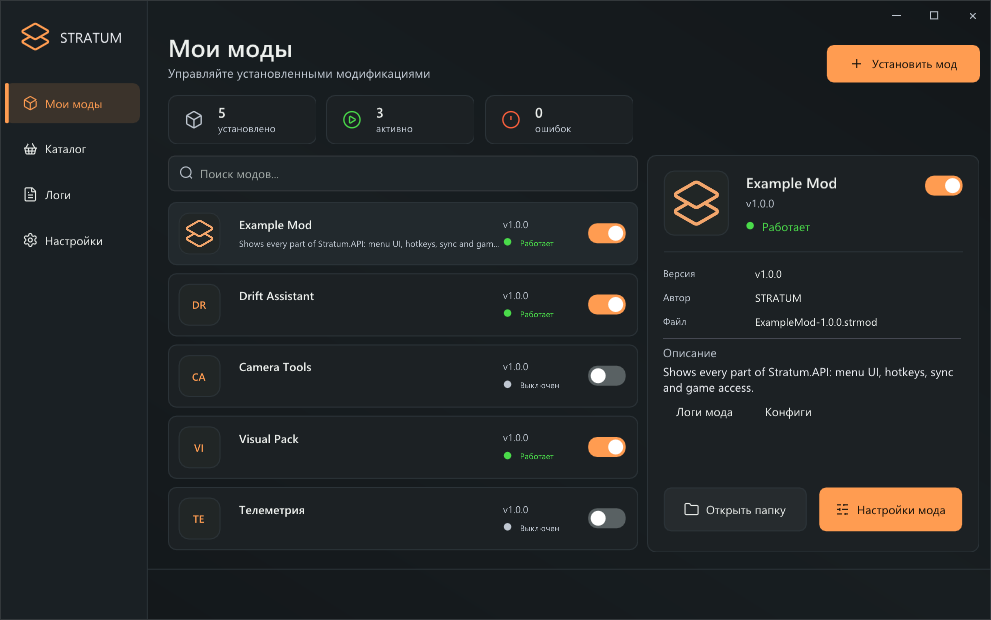
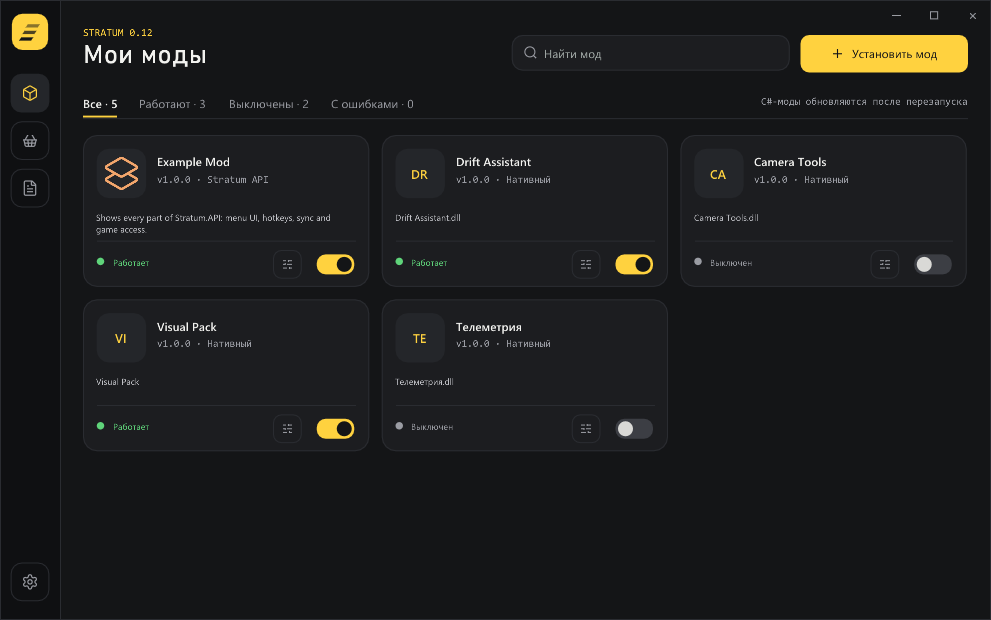
Add files via upload

diff --git a/docs/guide.html b/docs/guide.html
@@ -6,8 +6,8 @@
 <style>
 /* Layout: the STRATUM menu's own world — graphite panels, one orange accent; sticky contents rail beside a 70ch reading column. */
 :root {
-  --bg: #0e1215; --panel: #151b1f; --panel-2: #1b2227; --line: #263038; --fg: #e9ecef; --muted: #9aa5ae;
-  --accent: #ff9c51; --accent-ink: #1c1108; --accent-soft: rgba(255,156,81,.12); --code: #0a0d10; --ok: #4bdb4b;
+  --bg: #141517; --panel: #1c1d20; --panel-2: #24262a; --line: #2a2c31; --fg: #e9ecef; --muted: #9aa5ae;
+  --accent: #ffd23f; --accent-ink: #141517; --accent-soft: rgba(255,210,63,.12); --code: #0a0d10; --ok: #4bdb4b;
   --display: "Unbounded", "Segoe UI", system-ui, sans-serif;
   --body: "IBM Plex Sans", "Segoe UI", system-ui, sans-serif;
   --mono: "JetBrains Mono", Consolas, "Cascadia Mono", monospace;
@@ -15,10 +15,10 @@
 }
 @media (prefers-color-scheme: light) { :root:not([data-theme="dark"]) {
   --bg: #f3f5f6; --panel: #ffffff; --panel-2: #eef1f3; --line: #d8dee2; --fg: #141a1e; --muted: #56616a;
-  --accent: #c4601a; --accent-ink: #ffffff; --accent-soft: rgba(196,96,26,.10); --code: #f6f8f9; --ok: #1f8f3a; color-scheme: light } }
+  --accent: #8a5f00; --accent-ink: #ffffff; --accent-soft: rgba(138,95,0,.10); --code: #f6f8f9; --ok: #1f8f3a; color-scheme: light } }
 :root[data-theme="light"] {
   --bg: #f3f5f6; --panel: #ffffff; --panel-2: #eef1f3; --line: #d8dee2; --fg: #141a1e; --muted: #56616a;
-  --accent: #c4601a; --accent-ink: #ffffff; --accent-soft: rgba(196,96,26,.10); --code: #f6f8f9; --ok: #1f8f3a; color-scheme: light }
+  --accent: #8a5f00; --accent-ink: #ffffff; --accent-soft: rgba(138,95,0,.10); --code: #f6f8f9; --ok: #1f8f3a; color-scheme: light }
 
 * { box-sizing: border-box; }
 body { background: var(--bg); color: var(--fg); font: 400 16px/1.65 var(--body); margin: 0;
@@ -100,13 +100,13 @@ figcaption { font-size: 13.5px; color: var(--muted); margin-top: 8px; }
 <header class="hero">
   <div>
     <div class="brand" aria-label="STRATUM">
-      <svg viewBox="0 0 24 24" fill="none" stroke="currentColor" stroke-width="2" stroke-linecap="round" stroke-linejoin="round" aria-hidden="true"><path d="m16.02 12 5.48 3.13a1 1 0 0 1 0 1.74L13 21.74a2 2 0 0 1-2 0l-8.5-4.87a1 1 0 0 1 0-1.74L7.98 12"/><path d="M13 13.74a2 2 0 0 1-2 0L2.5 8.87a1 1 0 0 1 0-1.74L11 2.26a2 2 0 0 1 2 0l8.5 4.87a1 1 0 0 1 0 1.74Z"/></svg>
+      <svg viewBox="0 0 48 48" fill="currentColor" aria-hidden="true"><path d="M8 34h22l-4 6H4z"/><path d="M14 22h22l-4 6H10z" opacity=".75"/><path d="M20 10h22l-4 6H16z" opacity=".5"/></svg>
       STRATUM
     </div>
     <h1>Моды для CarX Drift Racing Online 2 на C#</h1>
     <p>Как установить загрузчик STRATUM и как написать свой мод: страница в меню игры, горячие клавиши, обмен сообщениями между игроками и прямой доступ к Unity и классам CarX.</p>
     <div class="chips">
-      <span class="chip">STRATUM <b>0.12.0</b></span>
+      <span class="chip">STRATUM <b>0.13.0</b></span>
       <span class="chip">Stratum.API <b>1.0.0</b></span>
       <span class="chip">.NET <b>8</b></span>
       <span class="chip">Insert — <b>меню</b></span>
@@ -127,6 +127,7 @@ figcaption { font-size: 13.5px; color: var(--muted); margin-top: 8px; }
 <a class="nav-item" href="#установка-модов">Установка модов</a>
 <a class="nav-item" href="#настройки-мода-и-горячие-клавиши">Настройки мода и горячие клавиши</a>
 <a class="nav-item" href="#логи">Логи</a>
+<a class="nav-item" href="#консоль-разработчика">Консоль разработчика</a>
 <a class="nav-item" href="#где-лежат-файлы">Где лежат файлы</a>
 <a class="nav-part" href="#часть-2-для-мододелов">Часть 2. Для мододелов</a>
 <a class="nav-item" href="#1-что-нужно-установить">1. Что нужно установить</a>
@@ -152,6 +153,7 @@ figcaption { font-size: 13.5px; color: var(--muted); margin-top: 8px; }
 <a class="nav-item" href="#установка-модов">Установка модов</a>
 <a class="nav-item" href="#настройки-мода-и-горячие-клавиши">Настройки мода и горячие клавиши</a>
 <a class="nav-item" href="#логи">Логи</a>
+<a class="nav-item" href="#консоль-разработчика">Консоль разработчика</a>
 <a class="nav-item" href="#где-лежат-файлы">Где лежат файлы</a>
 <a class="nav-part" href="#часть-2-для-мододелов">Часть 2. Для мододелов</a>
 <a class="nav-item" href="#1-что-нужно-установить">1. Что нужно установить</a>
@@ -170,19 +172,21 @@ figcaption { font-size: 13.5px; color: var(--muted); margin-top: 8px; }
 <a class="nav-item" href="#14-для-тех-кто-писал-под-ksl">14. Для тех, кто писал под KSL</a>
     </nav></details>
 <p>STRATUM — загрузчик модов для <strong>CarX Drift Racing Online 2</strong> (Windows x64). Меню открывается прямо в игре клавишей <strong>Insert</strong>. Stratum SDK — набор для создания модов на C#: библиотека <strong>Stratum.API</strong>, упаковщик, шаблон и большой пример.</p>
-<aside class="note"><p>Версии: STRATUM <strong>0.12.0</strong>, Stratum.API <strong>1.0.0</strong>.</p></aside>
+<aside class="note"><p>Версии: STRATUM <strong>0.13.0</strong>, Stratum.API <strong>1.0.0</strong>.</p></aside>
 <h2 id="часть-1-для-игроков">Часть 1. Для игроков</h2>
 <h3 id="установка-stratum">Установка STRATUM</h3>
-<ol><li>Закройте игру.</li><li>Скопируйте <strong>winhttp.dll</strong> из архива STRATUM в папку игры — туда, где лежит <code>CarX Drift Racing Online 2.exe</code>. Обычно это <code>C:\Program Files (x86)\Steam\steamapps\common\CarX Drift Racing Online 2</code>. Быстрый путь: Steam → ПКМ по игре → <strong>Управление</strong> → <strong>Просмотреть локальные файлы</strong>.</li><li>Для модов на C# один раз установите бесплатный <strong><a href="https://dotnet.microsoft.com/download/dotnet/8.0" target="_blank" rel="noopener">Microsoft .NET 8 Runtime (x64)</a></strong> — раздел «.NET Runtime», Windows x64. Без него работают только нативные моды, а у C#-модов в меню будет подсказка.</li><li>Запустите игру через Steam. При первом запуске рядом с игрой появится папка <strong>STRATUM</strong>.</li></ol>
+<ol><li>Закройте игру.</li><li>Скопируйте <strong>winhttp.dll</strong> из архива STRATUM в папку игры — туда, где лежит <code>CarX Drift Racing Online 2.exe</code>. Обычно это <code>C:\Program Files (x86)\Steam\steamapps\common\CarX Drift Racing Online 2</code>. Быстрый путь: Steam → ПКМ по игре → <strong>Управление</strong> → <strong>Просмотреть локальные файлы</strong>.</li><li>Для модов на C# один раз установите бесплатный <strong><a href="https://dotnet.microsoft.com/download/dotnet/8.0" target="_blank" rel="noopener">Microsoft .NET 8 Runtime (x64)</a></strong> — раздел «.NET Runtime», Windows x64. Без него работают только нативные моды, а у C#-модов в меню будет подсказка.</li><li>Запустите игру через Steam. При первом запуске рядом с игрой появится папка <strong>STRATUM</strong>, а меню откроется само и предложит выбрать язык. Потом его можно сменить в <strong>Настройках</strong>.</li></ol>
+<figure><img src="images/10-language.png" alt="Выбор языка при первом запуске" loading="lazy"><figcaption>Выбор языка при первом запуске</figcaption></figure>
 <aside class="note"><p>Если раньше стоял BepInEx, уберите из папки игры его файлы: <code>doorstop_config.ini</code>, папки <code>BepInEx</code> и <code>dotnet</code> и старый <code>winhttp.dll</code> BepInEx. STRATUM заменяет их полностью, а моды BepInEx 6 IL2CPP запускает сам.</p></aside>
 <h3 id="меню-stratum">Меню STRATUM</h3>
 <p>Нажмите <strong>Insert</strong> в игре. Ещё раз <strong>Insert</strong> — меню закроется.</p>
 <figure><img src="images/01-sdk-list.png" alt="Список модов" loading="lazy"><figcaption>Список модов</figcaption></figure>
-<ul><li><strong>Мои моды</strong> — список установленных модов. Справа — подробности о выбранном моде.</li><li>Переключатель справа в строке мода включает и выключает его.</li><li><strong>Логи</strong> — события загрузчика и модов.</li><li><strong>Настройки</strong> — масштаб интерфейса, язык, анимации, автозапуск новых модов.</li></ul>
+<p>Слева — панель разделов (подсказка появляется при наведении):</p>
+<ul><li><strong>Мои моды</strong> — установленные моды карточками. Вкладки сверху оставляют все моды, работающие, выключенные или с ошибками. Переключатель на карточке включает и выключает мод, нажатие на карточку открывает его страницу.</li><li><strong>Каталог</strong> — здесь появится каталог модов.</li><li><strong>Логи</strong> — события загрузчика и всех модов, включая моды BepInEx.</li><li><strong>Настройки</strong> (внизу) — масштаб, анимации, язык, автовключение новых модов, логи в файл и консоль разработчика.</li></ul>
 <h3 id="установка-модов">Установка модов</h3>
 <p>Есть два способа.</p>
 <p><strong>Через меню.</strong> Нажмите <strong>«Установить мод»</strong> и выберите:</p>
-<ul><li><strong>«Файл .strmod / .dll»</strong> — один мод;</li><li><strong>«Папка с модами»</strong> — папку мода или целую папку <code>BepInEx</code> от старой установки: её <code>plugins</code> станут модами, а <code>config</code> перенесётся в <code>STRATUM\Configs\Legacy</code>.</li></ul>
+<ul><li><strong>«Файл мода»</strong> — один <code>.strmod</code> или <code>.dll</code>;</li><li><strong>«Папка мода»</strong> — мод вместе с его файлами;</li><li><strong>«Перенести из BepInEx»</strong> — целая папка <code>BepInEx</code> от старой установки: её <code>plugins</code> станут модами, а <code>config</code> перенесётся в <code>STRATUM\Configs\Legacy</code>.</li></ul>
 <figure><img src="images/02-import.png" alt="Установка мода" loading="lazy"><figcaption>Установка мода</figcaption></figure>
 <p><strong>Вручную.</strong> Положите файл <code>.strmod</code> или <code>.dll</code> (или папку мода) в <code>STRATUM\Mods</code> при закрытой игре.</p>
 <p>Какие моды поддерживаются:</p>
@@ -190,12 +194,16 @@ figcaption { font-size: 13.5px; color: var(--muted); margin-top: 8px; }
 <p>Моды для BepInEx 5 / Mono не поддерживаются: в CarX DRO2 нет Mono.</p>
 <aside class="note"><p>Включение и выключение C#-мода применяется <strong>после перезапуска игры</strong>. Уже загруженный C#-код выгрузить нельзя — меню об этом напомнит.</p></aside>
 <h3 id="настройки-мода-и-горячие-клавиши">Настройки мода и горячие клавиши</h3>
-<p>Выберите мод и нажмите <strong>«Настройки мода»</strong>. Здесь мод показывает свою страницу. Внизу — его горячие клавиши: нажмите на комбинацию и затем новые клавиши. <strong>Esc</strong> — отмена, <strong>Backspace</strong> — убрать клавишу, кнопка со стрелкой — вернуть по умолчанию.</p>
+<p>Нажмите на карточку мода. Откроется его страница с вкладками:</p>
+<ul><li><strong>Страница мода</strong> — то, что показывает сам мод (настройки, кнопки, вложенные разделы).</li><li><strong>Горячие клавиши</strong> — клавиши мода. Нажмите на комбинацию, затем новые клавиши: <strong>Esc</strong> — отмена, <strong>Backspace</strong> — убрать клавишу, кнопка со стрелкой — вернуть по умолчанию.</li><li><strong>Файлы и конфиги</strong> — тип, версия, файл, ошибки загрузки и кнопки для папок мода.</li><li><strong>Логи мода</strong> — раздел «Логи» с записями только этого мода.</li></ul>
 <figure><img src="images/06-sdk-hotkeys.png" alt="Горячие клавиши" loading="lazy"><figcaption>Горячие клавиши</figcaption></figure>
 <p>Горячие клавиши не срабатывают, пока открыто меню STRATUM или окно игры не активно.</p>
 <h3 id="логи">Логи</h3>
 <p>Раздел <strong>Логи</strong> показывает, что происходит. Фильтр «Все источники» выбирает конкретный мод, кнопки справа оставляют только предупреждения или ошибки. «Сохранить логи» копирует их в файл — пригодится, чтобы отправить автору мода.</p>
 <figure><img src="images/08-logs.png" alt="Логи" loading="lazy"><figcaption>На снимке — пример записей Example Mod.</figcaption></figure>
+<h3 id="консоль-разработчика">Консоль разработчика</h3>
+<p><strong>Настройки → Консоль разработчика</strong> открывает отдельное окно Windows со всеми записями в реальном времени: STRATUM, моды Stratum SDK и моды BepInEx. Предупреждения — жёлтым, ошибки — красным; при открытии показывается и всё, что было с начала сеанса. Закрывается консоль тем же переключателем (крестик окна убран: в Windows закрытие консоли закрывает и игру).</p>
+<figure><img src="images/09-settings.png" alt="Настройки" loading="lazy"><figcaption>Настройки</figcaption></figure>
 <h3 id="где-лежат-файлы">Где лежат файлы</h3>
 <div class="code"><div class="code-bar"><span></span><button type="button" class="copy">Копировать</button></div><pre><code class="lang-text">&lt;папка игры&gt;\
 ├── winhttp.dll              ← STRATUM
@@ -209,7 +217,7 @@ figcaption { font-size: 13.5px; color: var(--muted); margin-top: 8px; }
 <h2 id="часть-2-для-мододелов">Часть 2. Для мододелов</h2>
 <p>Stratum.API устроен похоже на KSL SDK: вы пишете обычную C#-библиотеку, наследуете класс мода и получаете готовые сервисы — <strong>лог, страницу в меню, горячие клавиши и обмен сообщениями между игроками</strong>. К самой игре (Unity и классам CarX) есть прямой доступ, как в модах BepInEx IL2CPP.</p>
 <h3 id="1-что-нужно-установить">1. Что нужно установить</h3>
-<ul><li><strong><a href="https://dotnet.microsoft.com/download/dotnet/8.0" target="_blank" rel="noopener">.NET 8 SDK</a></strong> (или новее) — для сборки.</li><li>Редактор: <strong>Visual Studio 2022</strong>, <strong>JetBrains Rider</strong> или <strong>VS Code</strong> с расширением C# Dev Kit.</li><li>Установленная игра со <strong>STRATUM 0.12+</strong> — из неё берутся ссылки на классы игры.</li></ul>
+<ul><li><strong><a href="https://dotnet.microsoft.com/download/dotnet/8.0" target="_blank" rel="noopener">.NET 8 SDK</a></strong> (или новее) — для сборки.</li><li>Редактор: <strong>Visual Studio 2022</strong>, <strong>JetBrains Rider</strong> или <strong>VS Code</strong> с расширением C# Dev Kit.</li><li>Установленная игра со <strong>STRATUM 0.12+</strong> (лучше 0.13) — из неё берутся ссылки на классы игры.</li></ul>
 <h3 id="2-что-внутри-sdk">2. Что внутри SDK</h3>
 <div class="code"><div class="code-bar"><span></span><button type="button" class="copy">Копировать</button></div><pre><code class="lang-text">STRATUM-SDK-1.0.0\
 ├── API\
@@ -250,7 +258,7 @@ description=Таймер дрифта</code></pre></div>
 <aside class="note"><p>Можно ставить и просто <code>.dll</code> из <code>bin\Release\net8.0</code> — для быстрой проверки. Для публикации используйте <code>.strmod</code>: в нём есть название, автор, описание и логотип, а файл защищён контрольной суммой.</p></aside>
 <h3 id="4-как-устроен-мод">4. Как устроен мод</h3>
 <p>Мод — это класс, унаследованный от <code>StratumMod</code> и помеченный <code>[StratumMod]</code>. STRATUM создаёт один его экземпляр и вызывает методы:</p>
-<div class="table"><table><thead><tr><th>Метод</th><th>Когда вызывается</th></tr></thead><tbody><tr><td><code>OnLoad()</code></td><td>один раз, когда игра запущена</td></tr><tr><td><code>OnUpdate(float deltaTime)</code></td><td>каждый кадр</td></tr><tr><td><code>OnDrawUI()</code></td><td>пока у игрока открыта страница мода в меню (около 30 раз в секунду)</td></tr><tr><td><code>OnQuit()</code></td><td>при закрытии игры — сохраните несохранённое</td></tr><tr><td><code>GetIcon()</code></td><td>один раз при загрузке — PNG-логотип или <code>null</code></td></tr></tbody></table></div>
+<div class="table"><table><thead><tr><th>Метод</th><th>Когда вызывается</th></tr></thead><tbody><tr><td><code>OnLoad()</code></td><td>один раз, когда игра запущена</td></tr><tr><td><code>OnUpdate(float deltaTime)</code></td><td>каждый кадр</td></tr><tr><td><code>OnDrawUI()</code></td><td>пока у игрока открыта вкладка «Страница мода» (около 30 раз в секунду)</td></tr><tr><td><code>OnQuit()</code></td><td>при закрытии игры — сохраните несохранённое</td></tr><tr><td><code>GetIcon()</code></td><td>один раз при загрузке — PNG-логотип или <code>null</code></td></tr></tbody></table></div>
 <p><strong>Все методы выполняются в главном потоке Unity.</strong> Поэтому из любого из них можно спокойно работать с объектами игры — в том числе из кода страницы в меню.</p>
 <p>Что доступно внутри класса мода:</p>
 <div class="table"><table><thead><tr><th>Свойство</th><th>Что это</th></tr></thead><tbody><tr><td><code>Log</code></td><td>запись в лог STRATUM (<code>Info</code>, <code>Warning</code>, <code>Error</code>)</td></tr><tr><td><code>UI</code></td><td>элементы страницы мода</td></tr><tr><td><code>Input</code></td><td>горячие клавиши</td></tr><tr><td><code>Sync</code></td><td>сообщения между игроками</td></tr><tr><td><code>ConfigDirectory</code></td><td>личная папка мода <code>STRATUM\Configs\&lt;id&gt;</code></td></tr><tr><td><code>Id</code>, <code>Name</code>, <code>Version</code></td><td>данные из атрибута</td></tr></tbody></table></div>
@@ -292,7 +300,7 @@ void DrawAdvanced()
 <h4 id="важно-знать">Важно знать</h4>
 <ul><li><strong>Подписи — это id элементов.</strong> Если на странице две кнопки «Удалить», они различаются по порядку. Чтобы id не зависел от порядка, добавьте скрытый суффикс: <code>UI.Button(&quot;Удалить##slot2&quot;)</code> — после <code>##</code> текст не показывается.</li><li><strong>Значения храните в полях класса.</strong> Метод <code>Toggle(ref value)</code> меняет вашу переменную, поэтому её нужно держать между кадрами.</li><li><strong>Задержка — один кадр.</strong> Нажатие приходит моду в следующем вызове <code>OnDrawUI</code>. Это незаметно для игрока.</li><li><strong>Код страницы работает только пока она открыта.</strong> Логику, которая должна работать всегда, держите в <code>OnUpdate</code>.</li></ul>
 <h3 id="6-горячие-клавиши">6. Горячие клавиши</h3>
-<p>Зарегистрируйте клавиши в <code>OnLoad</code>. Игрок увидит их на странице мода и сможет переназначить — выбор сохраняется сам (<code>STRATUM\Configs\&lt;id&gt;\hotkeys.cfg</code>).</p>
+<p>Зарегистрируйте клавиши в <code>OnLoad</code>. Игрок увидит их на вкладке «Горячие клавиши» своего мода и сможет переназначить — выбор сохраняется сам (<code>STRATUM\Configs\&lt;id&gt;\hotkeys.cfg</code>).</p>
 <div class="code"><div class="code-bar"><span>C#</span><button type="button" class="copy">Копировать</button></div><pre><code class="lang-csharp">public override void OnLoad()
 {
     // Нажатие: один раз. По умолчанию Ctrl + H.
@@ -393,7 +401,7 @@ public override void OnDrawUI()
 .\tools\stratum-pack.exe inspect DriftTimer-1.0.0.strmod</code></pre></div>
 <p><code>inspect</code> покажет данные пакета и <code>abi=2 (C# Stratum.API)</code>. Упаковщик сам определяет тип DLL, так что нативные моды (C++ / Native AOT) он пакует тоже.</p>
 <h3 id="12-отладка-и-частые-ошибки">12. Отладка и частые ошибки</h3>
-<p>Смотрите <strong>Логи</strong> в меню (фильтр по вашему моду) или файлы в <code>STRATUM\Logs</code>:</p>
+<p>Удобнее всего — <strong>консоль разработчика</strong> (Настройки → Консоль разработчика): <code>Log.Info</code>, <code>Log.Warning</code>, <code>Log.Error</code> и исключения вашего мода появляются в ней сразу. Ещё есть <strong>Логи</strong> в меню (фильтр по вашему моду) и файлы в <code>STRATUM\Logs</code>:</p>
 <ul><li><code>mods.log</code> — сообщения модов (<code>Log.Info</code> и т. п.) и статусы загрузки;</li><li><code>compatibility.log</code> — подробности слоя C# (исключения, BepInEx-моды);</li><li><code>loader.log</code> — запуск STRATUM.</li></ul>
 <div class="table"><table><thead><tr><th>Проблема</th><th>Причина и решение</th></tr></thead><tbody><tr><td><code>error CS0656 ... NullableAttribute</code></td><td>нет <code>NullableAttributes.cs</code> в проекте — скопируйте его из шаблона</td></tr><tr><td>Не находятся <code>UnityEngine</code>, <code>Camera</code> и т. п.</td><td>не выполнен <code>Get-GameReferences.ps1</code> или не добавлена ссылка в <code>.csproj</code></td></tr><tr><td>В меню «Для C#-модов установите .NET 8»</td><td>у игрока нет .NET 8 Runtime x64</td></tr><tr><td>«Недопустимый id мода»</td><td>id содержит заглавные буквы, пробелы или кириллицу</td></tr><tr><td>«В сборке нет класса, унаследованного от StratumMod»</td><td>класс мода абстрактный, не наследует <code>StratumMod</code> или его нет</td></tr><tr><td>«Класс … без атрибута [StratumMod]»</td><td>добавьте атрибут</td></tr><tr><td>«Мод с id … уже загружен»</td><td>установлены две копии мода</td></tr><tr><td>Мод остановлен с ошибкой <code>OnUpdate</code></td><td>исключение в <code>OnUpdate</code>: смотрите стек в логе</td></tr><tr><td>Изменения не применяются</td><td>C#-мод обновляется только после перезапуска игры</td></tr><tr><td>Хоткей не срабатывает</td><td>открыто меню STRATUM, игра не в фокусе или зажат лишний модификатор (сравнение точное)</td></tr><tr><td><code>Sync.Send</code> возвращает <code>false</code></td><td>вы не в онлайн-комнате, сообщение больше 512 байт или пачка за 0,5 с уже заполнена</td></tr></tbody></table></div>
 <h3 id="13-справочник-api">13. Справочник API</h3>
@@ -412,7 +420,7 @@ public override void OnDrawUI()
   </main>
 </div>
 <footer class="footer">
-  <span>Stratum SDK 1.0.0 · STRATUM 0.12.0 · CarX Drift Racing Online 2, Windows x64</span>
+  <span>Stratum SDK 1.0.0 · STRATUM 0.13.0 · CarX Drift Racing Online 2, Windows x64</span>
   <span>Этот гайд лежит в SDK: docs/GUIDE-RU.md, docs/GUIDE-EN.md, docs/guide.html</span>
 </footer>
 

diff --git a/docs/GUIDE-EN.md b/docs/GUIDE-EN.md
@@ -3,7 +3,7 @@
 STRATUM is an in-game mod loader for **CarX Drift Racing Online 2** (Windows x64); press **Insert** in the game to open its menu.
 Stratum SDK is the kit for C# mods: the **Stratum.API** library, a packer, a template and a full example.
 
-> Versions: STRATUM **0.12.0**, Stratum.API **1.0.0**. Русская версия: [GUIDE-RU.md](GUIDE-RU.md).
+> Versions: STRATUM **0.13.0**, Stratum.API **1.0.0**. Русская версия: [GUIDE-RU.md](GUIDE-RU.md).
 
 - [Part 1. For players](#part-1-for-players)
 - [Part 2. For modders](#part-2-for-modders)
@@ -17,7 +17,9 @@ Stratum SDK is the kit for C# mods: the **Stratum.API** library, a packer, a tem
 1. Close the game.
 2. Copy **winhttp.dll** into the game folder, next to `CarX Drift Racing Online 2.exe` (Steam → right-click the game → **Manage** → **Browse local files**).
 3. For C# mods, install the free **[Microsoft .NET 8 Runtime (x64)](https://dotnet.microsoft.com/download/dotnet/8.0)** once. Without it only native mods run; C# mods show a hint in the menu.
-4. Start the game through Steam. A **STRATUM** folder appears next to the game.
+4. Start the game through Steam. A **STRATUM** folder appears next to the game, and on the first run the menu opens by itself so you can pick a language (change it later in **Settings**).
+
+![Language on first run](images/10-language.png)
 
 > Coming from BepInEx: remove `doorstop_config.ini`, the `BepInEx` and `dotnet` folders and BepInEx's `winhttp.dll`. STRATUM replaces them and runs BepInEx 6 IL2CPP mods itself.
 
@@ -27,11 +29,11 @@ Stratum SDK is the kit for C# mods: the **Stratum.API** library, a packer, a tem
 
 ![Mod list](images/01-sdk-list.png)
 
-**My mods** lists installed mods (the switch turns a mod on or off), **Logs** shows loader and mod events, **Settings** has scale, language, animations and auto-enable.
+The rail on the left holds the sections: **My mods** shows installed mods as cards (tabs filter all / running / disabled / with errors; the switch turns a mod on or off; clicking a card opens its page), **Catalog** is reserved for the mod catalog, **Logs** shows loader and mod events including BepInEx mods, and **Settings** (bottom) has scale, animations, language, auto-enable, file logs and the developer console.
 
 ### Installing mods
 
-Use **«Установить мод» (Install mod)** → a `.strmod`/`.dll` file, or a folder (a mod folder or a whole old `BepInEx` folder: its `plugins` become mods, its `config` goes to `STRATUM\Configs\Legacy`). Or drop files into `STRATUM\Mods` while the game is closed.
+Use **Install mod** → **Mod file** (a `.strmod`/`.dll`), **Mod folder**, or **Move from BepInEx** (a whole old `BepInEx` folder: its `plugins` become mods, its `config` goes to `STRATUM\Configs\Legacy`). Or drop files into `STRATUM\Mods` while the game is closed.
 
 ![Install mod](images/02-import.png)
 
@@ -45,13 +47,17 @@ BepInEx 5 / Mono mods are not supported. Enabling or disabling a C# mod applies 
 
 ### Mod settings, hotkeys, logs
 
-Select a mod → **«Настройки мода» (Mod settings)** shows the mod's page and, below it, its hotkeys: click a combination, then press new keys (**Esc** cancels, **Backspace** clears, the arrow button restores the default).
+Click a mod card to open its page. Tabs: **Mod page** (what the mod draws), **Hotkeys** (click a combination, then press new keys; **Esc** cancels, **Backspace** clears, the arrow button restores the default), **Files and configs** (type, version, file, load errors, folders) and **Mod logs**.
 
 ![Hotkeys](images/06-sdk-hotkeys.png)
 
 ![Logs](images/08-logs.png)
 
 *Example entries from Example Mod.*
+
+**Developer console.** **Settings → Developer console** opens a separate window with every log line in real time: STRATUM, Stratum SDK mods and BepInEx mods, warnings in yellow and errors in red, starting with the session so far. Turn it off with the same switch (the window's close button is removed because closing a console window would also close the game).
+
+![Settings](images/09-settings.png)
 
 ```text
 <game folder>\
@@ -114,7 +120,7 @@ Mod ids use lowercase letters, digits, `.`, `_`, `-` (for example `nick.mod`). K
 |---|---|
 | `OnLoad()` | once, when the game is running |
 | `OnUpdate(float deltaTime)` | every frame |
-| `OnDrawUI()` | while the player has the mod's page open (~30 times a second) |
+| `OnDrawUI()` | while the player has the mod's "Mod page" tab open (~30 times a second) |
 | `OnQuit()` | when the game closes |
 | `GetIcon()` | once at load: PNG bytes or `null` |
 
@@ -230,7 +236,7 @@ Use `ConfigDirectory`; see `examples\ExampleMod\Settings.cs` for a JSON example.
 
 ### 12. Troubleshooting
 
-Logs: menu → **Logs** (filter by your mod), or `STRATUM\Logs\mods.log` (mod messages), `compatibility.log` (C# layer details), `loader.log`.
+The quickest view is the **developer console** (Settings → Developer console): your `Log.*` calls and exceptions show up there at once. Also: menu → **Logs** (filter by your mod), or `STRATUM\Logs\mods.log` (mod messages), `compatibility.log` (C# layer details), `loader.log`.
 
 | Problem | Fix |
 |---|---|

diff --git a/README.md b/README.md
@@ -1,22 +1,29 @@
-# Stratum SDK
+![STRATUM](docs/images/banner.png)
 
-SDK for C# mods for the **STRATUM** mod loader — **CarX Drift Racing Online 2**, Windows x64.
-SDK для C#-модов загрузчика **STRATUM** — **CarX Drift Racing Online 2**, Windows x64.
+# Stratum SDK 1.0
+
+C# mods for the **STRATUM** loader — **CarX Drift Racing Online 2**, Windows x64.
+C#-моды для загрузчика **STRATUM** — **CarX Drift Racing Online 2**, Windows x64.
 
 ![Example Mod in the STRATUM menu](docs/images/04-sdk-elements.png)
 
-- **Stratum.API** — mod base class, a page in the STRATUM menu, rebindable hotkeys, multiplayer messages, direct access to Unity and CarX classes.
-- **tools** — game references from your STRATUM install, one-command build, `.strmod` packer.
-- **template\MyMod** — start here. **examples\ExampleMod** — every feature with comments.
+| | |
+|---|---|
+| **Stratum.API** | mod base class · a page in the STRATUM menu · rebindable hotkeys · multiplayer messages · direct access to Unity and CarX classes |
+| **tools** | game references from your STRATUM install · one-command build · `.strmod` packer |
+| **template\MyMod** | start here |
+| **examples\ExampleMod** | every feature, with comments (+ prebuilt `.strmod`) |
+
+Requires STRATUM **0.12+** (0.13 recommended) and the [.NET 8 SDK](https://dotnet.microsoft.com/download/dotnet/8.0). Players need the [.NET 8 Runtime x64](https://dotnet.microsoft.com/download/dotnet/8.0).
 
 ## Guide / Руководство
 
 - 🇷🇺 [docs/GUIDE-RU.md](docs/GUIDE-RU.md) — полное руководство для игроков и мододелов
 - 🇬🇧 [docs/GUIDE-EN.md](docs/GUIDE-EN.md) — complete guide for players and modders
+- [docs/guide.html](docs/guide.html) — the Russian guide as a web page
+- [CHANGELOG.md](CHANGELOG.md) — what's new / что нового
 
-## Quick start
-
-Needs the [.NET 8 SDK](https://dotnet.microsoft.com/download/dotnet/8.0) and the game with STRATUM 0.12+.
+## Quick start / Быстрый старт
 
 ```powershell
 .\tools\Get-GameReferences.ps1 -Game "C:\Program Files (x86)\Steam\steamapps\common\CarX Drift Racing Online 2"
@@ -42,4 +49,11 @@ public sealed class MyMod : StratumMod
 }
 ```
 
-Players need the [.NET 8 Runtime x64](https://dotnet.microsoft.com/download/dotnet/8.0) for C# mods.
+## Debugging / Отладка
+
+Turn on **Settings → Developer console** in the STRATUM menu: `Log.Info`, `Log.Warning`, `Log.Error` and your mod's exceptions appear in a live console window.
+Включите **Настройки → Консоль разработчика** в меню STRATUM: `Log.Info`, `Log.Warning`, `Log.Error` и исключения мода появляются в окне консоли сразу.
+
+| Your mod in the menu / Ваш мод в меню | |
+|---|---|
+| ![Hotkeys](docs/images/06-sdk-hotkeys.png) | ![Sync](docs/images/07-sdk-sync.png) |
